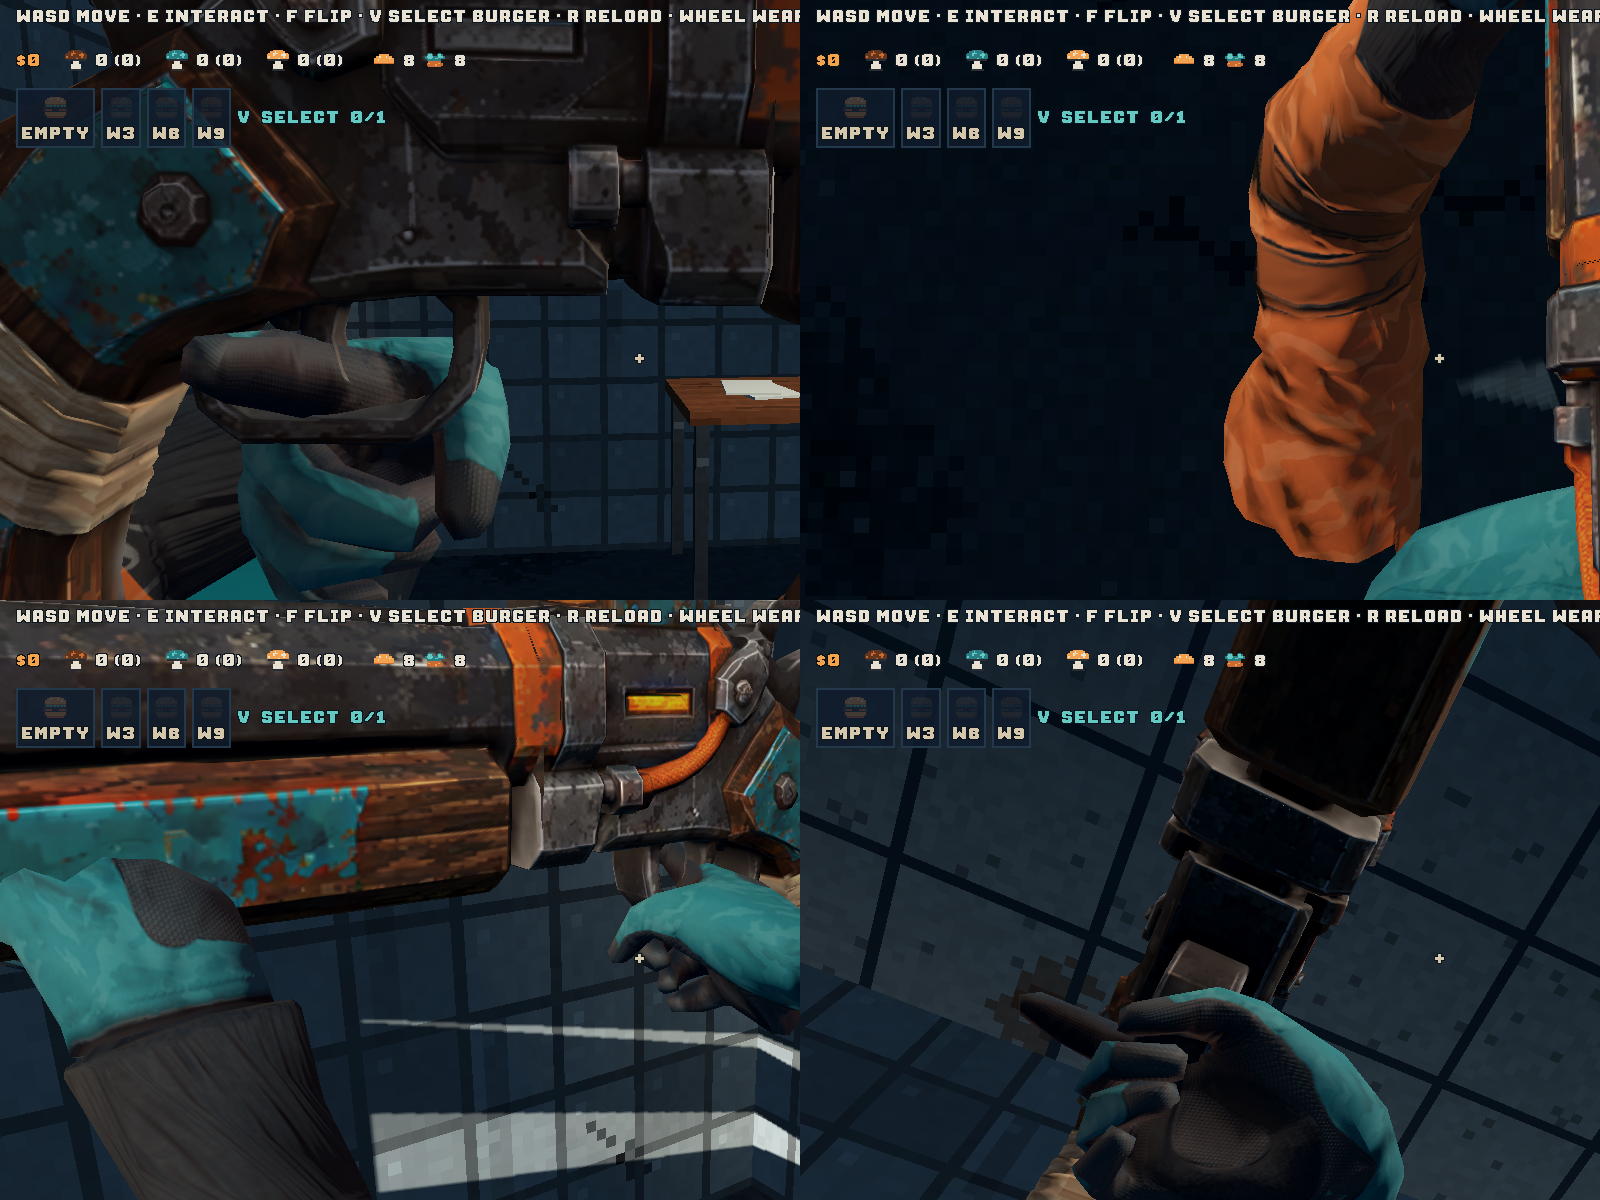
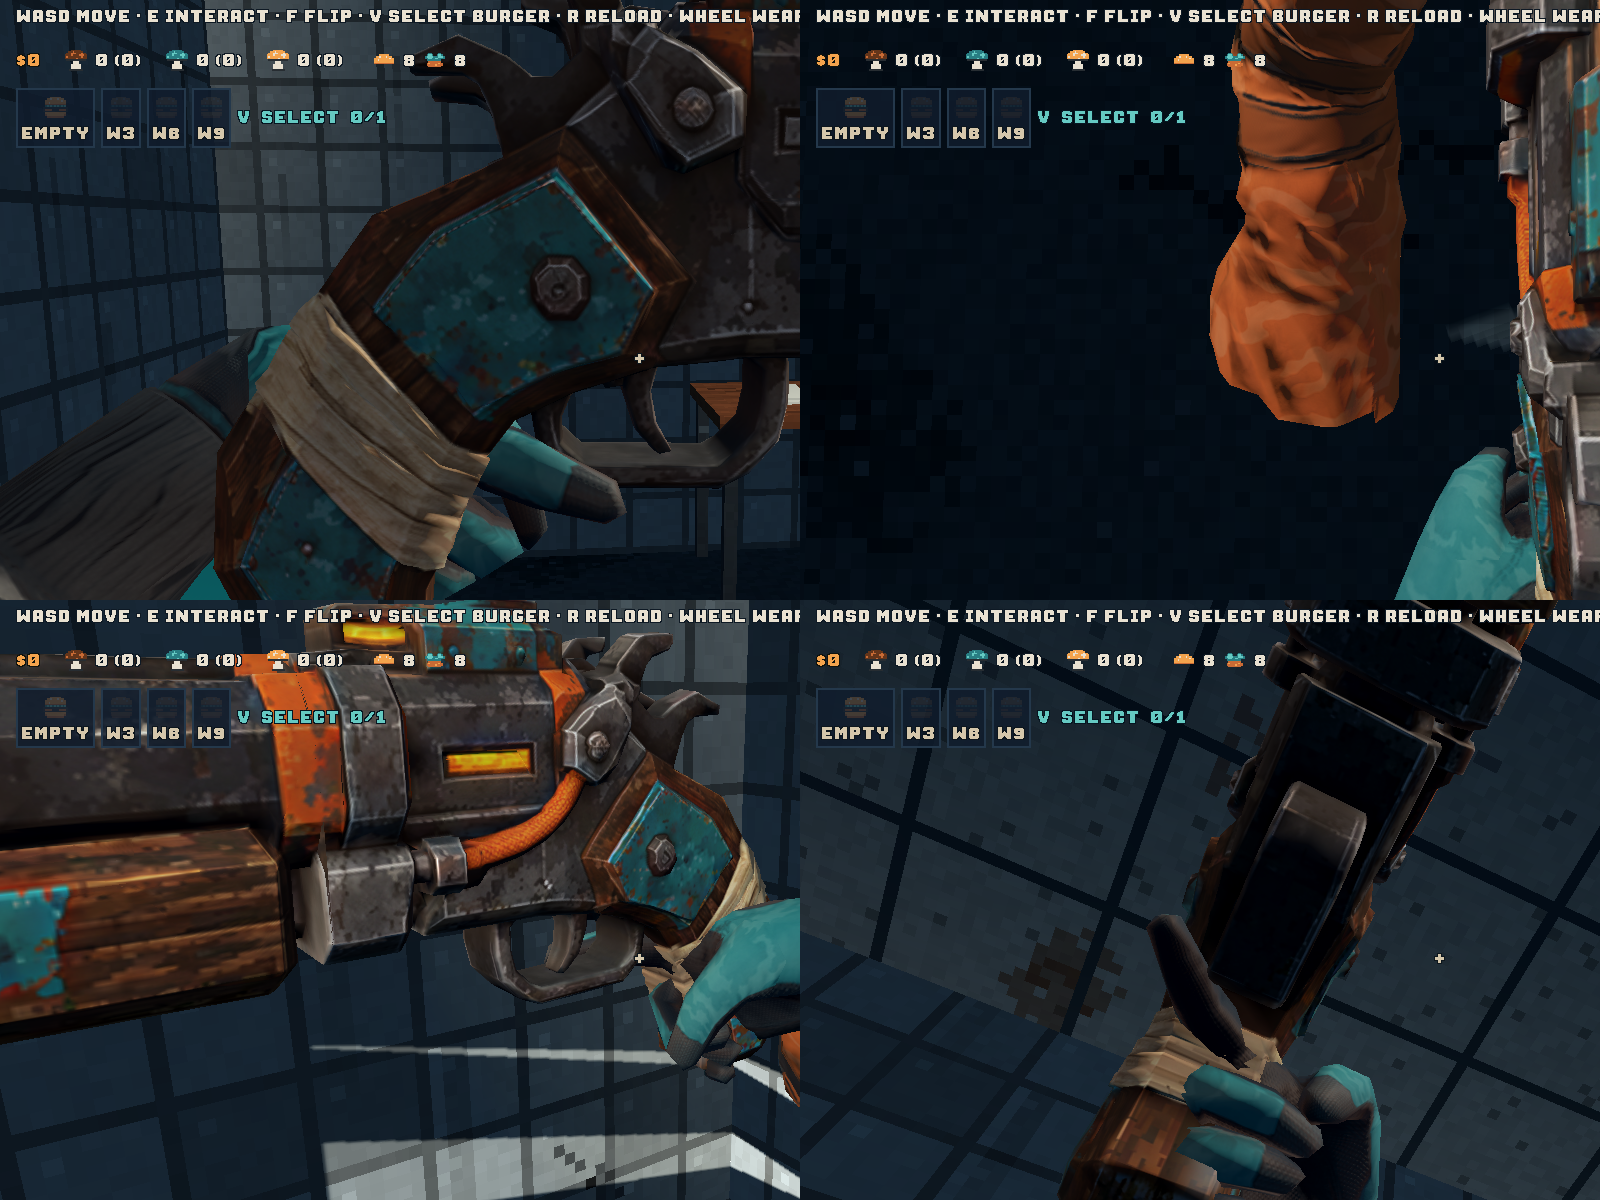
Sawn-off: right hand wraps the rear grip, arm in from the right
Owner: the right hand sat under the grip, came in from the left and held the
trigger. The old PSX hand reference sits forward by the trigger, so fitting to
it put the hand there. tools/fps_arms_fit.py gains GRIPS: hands placed
straight onto the weapon's own grip (camera space at rest, from a profile of
the gun mesh): knuckles down the raked rear grip (z -0.30..-0.36), palm on its
rear right facing forward-left, wrist behind and to the right; the 1.25x rig
scale is accounted for. Left hand and other weapons unchanged.

Tested: fps_arms_test, crop_duster_test, integration_test: 0 failures.
First-person and close-up captures inspected (fingers round the front of the
rear grip, index by the guard, arm from the right).

Claude-Session: https://claude.ai/code/session_01WCsn9RbBfcfb7Wuzf9BFFz

diff --git a/tools/fps_arms_fit.py b/tools/fps_arms_fit.py
@@ -109,6 +109,37 @@ def semantic_start(frames, weapon, side, aks_key):
     return R0, h0, g0
 
 
+# Hands placed straight onto the weapon's own grip, in camera space at rest,
+# where the old hand was in the wrong place (owner: the sawn-off's right hand
+# held the trigger from the left; it should wrap the big grip at the back and
+# come in from the right). knuckles: index->pinky down the grip; palm: palm ->
+# grip; centre: grip centre (tools: profile the gun mesh along its length).
+GRIPS = {
+    ('crop_duster', 'r'): {'knuckles': (0.0, -0.89, 0.45), 'palm': (-0.7, 0.0, -0.7),
+                           'centre': (0.122, -0.27, -0.33), 'reach': 0.02,
+                           'scale': 1.25},   # FITS rig scale: the hand is that much bigger
+}
+
+
+def placed(frames, weapon, side, aks_key):
+    """Offset that lays the AKS grip frame on GRIPS[weapon, side] (no ICP)."""
+    g = GRIPS[(weapon, side)]
+    H, h0 = grip_frame(frames[aks_key][side])
+    h0 = h0 * g.get('scale', 1.0)
+    ref = np.array(frames[weapon][side]['ref_in_camera'])
+    rc = ref[:3].T; ro = ref[3]                      # ref axes (columns) and origin, camera space
+    k = np.array(g['knuckles'], float); k /= np.linalg.norm(k)
+    n = np.array(g['palm'], float); n = n - k * np.dot(n, k); n /= np.linalg.norm(n)
+    G_cam = np.stack([k, n, np.cross(k, n)], 1)
+    knuckles_cam = np.array(g['centre'], float) + n * g['reach']
+    G = rc.T @ G_cam                                  # into the ref frame
+    g0 = rc.T @ (knuckles_cam - ro)
+    R = G @ H.T
+    t = g0 - R @ h0
+    eul = Rotation.from_matrix(R).as_euler('YXZ', degrees=True)
+    return t, (eul[1], eul[0], eul[2])
+
+
 def angle_between(A, B):
     return math.degrees(Rotation.from_matrix(A @ B.T).magnitude())
 
@@ -148,6 +179,11 @@ def main(d):
         for side, pair in zip('rl', pairs):
             a, o = pair[0], pair[1]
             scale = pair[2] if len(pair) > 2 else 1.0
+            if (weapon, side) in GRIPS and weapon in frames:
+                t, rot = placed(frames, weapon, side, 'aks')
+                out.append('"%s": [Vector3(%.4f, %.4f, %.4f), Vector3(%.1f, %.1f, %.1f)]' % (side, *t, *rot))
+                print('# %s %s: placed on the weapon grip (GRIPS)' % (weapon, side))
+                continue
             start = None
             if weapon in frames and not a.endswith('_p43'):
                 start = semantic_start(frames, weapon, side, 'aks_fist' if a.endswith('_fist') else 'aks')
